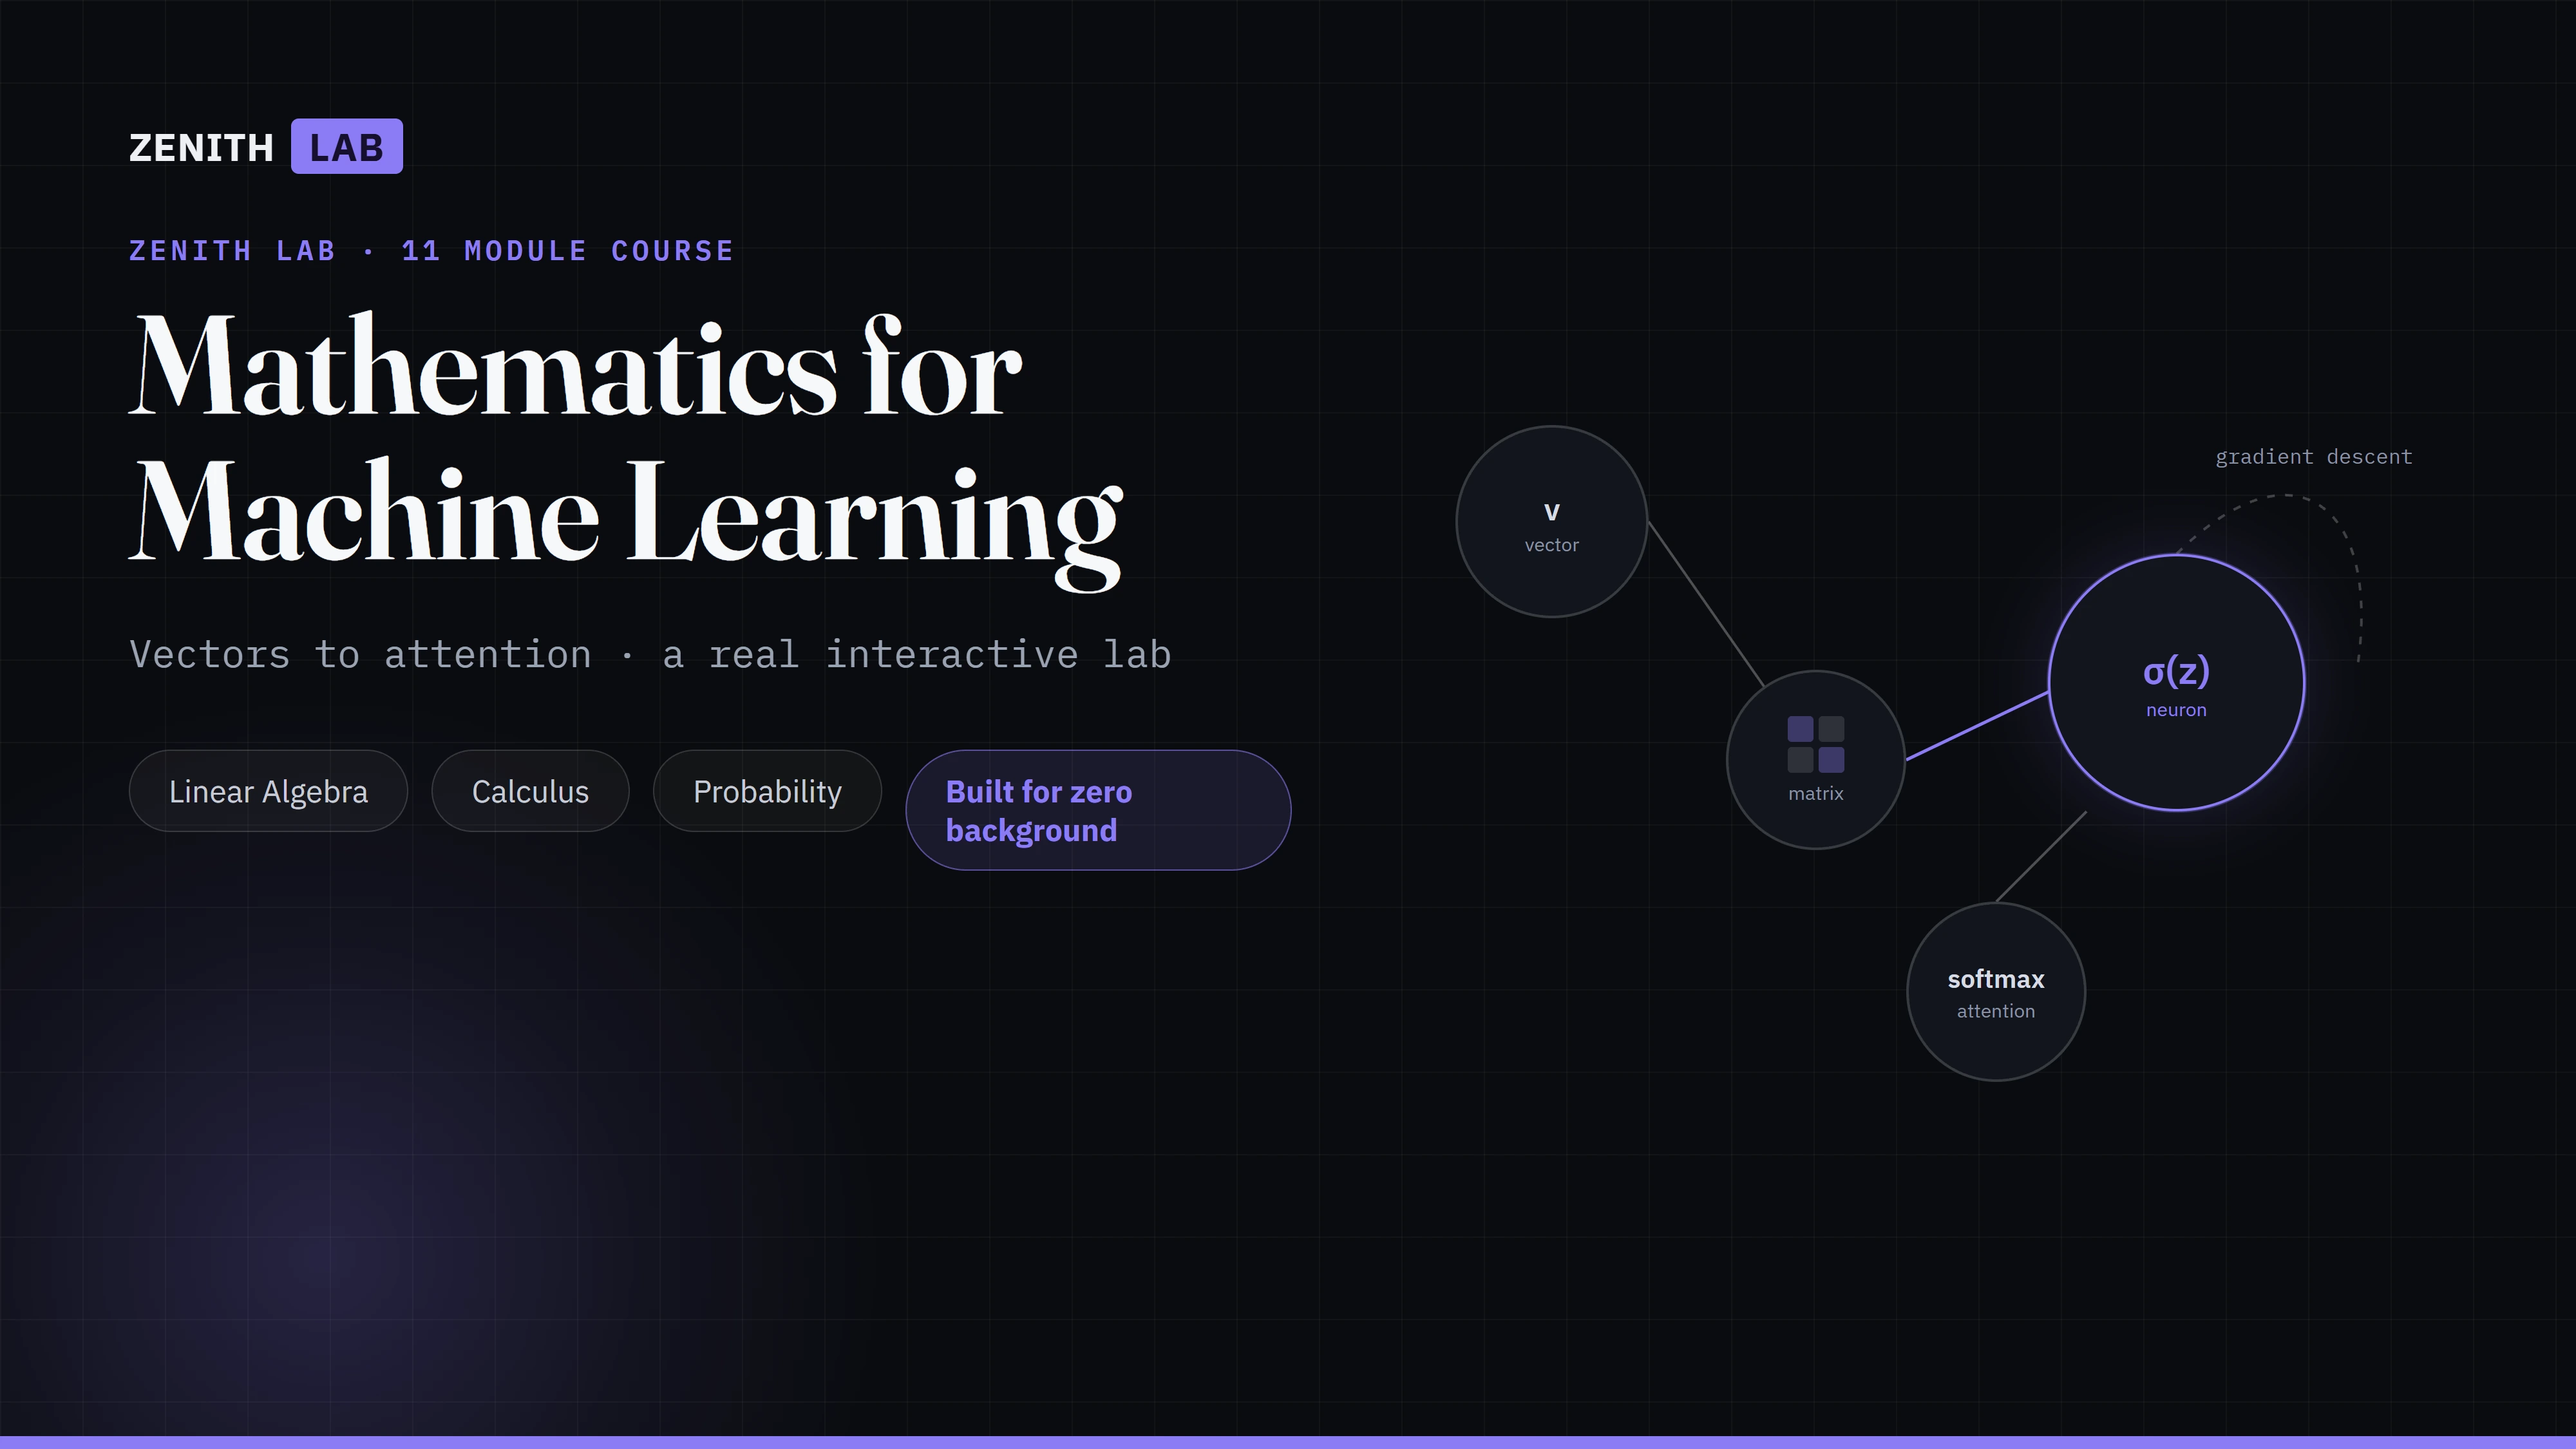
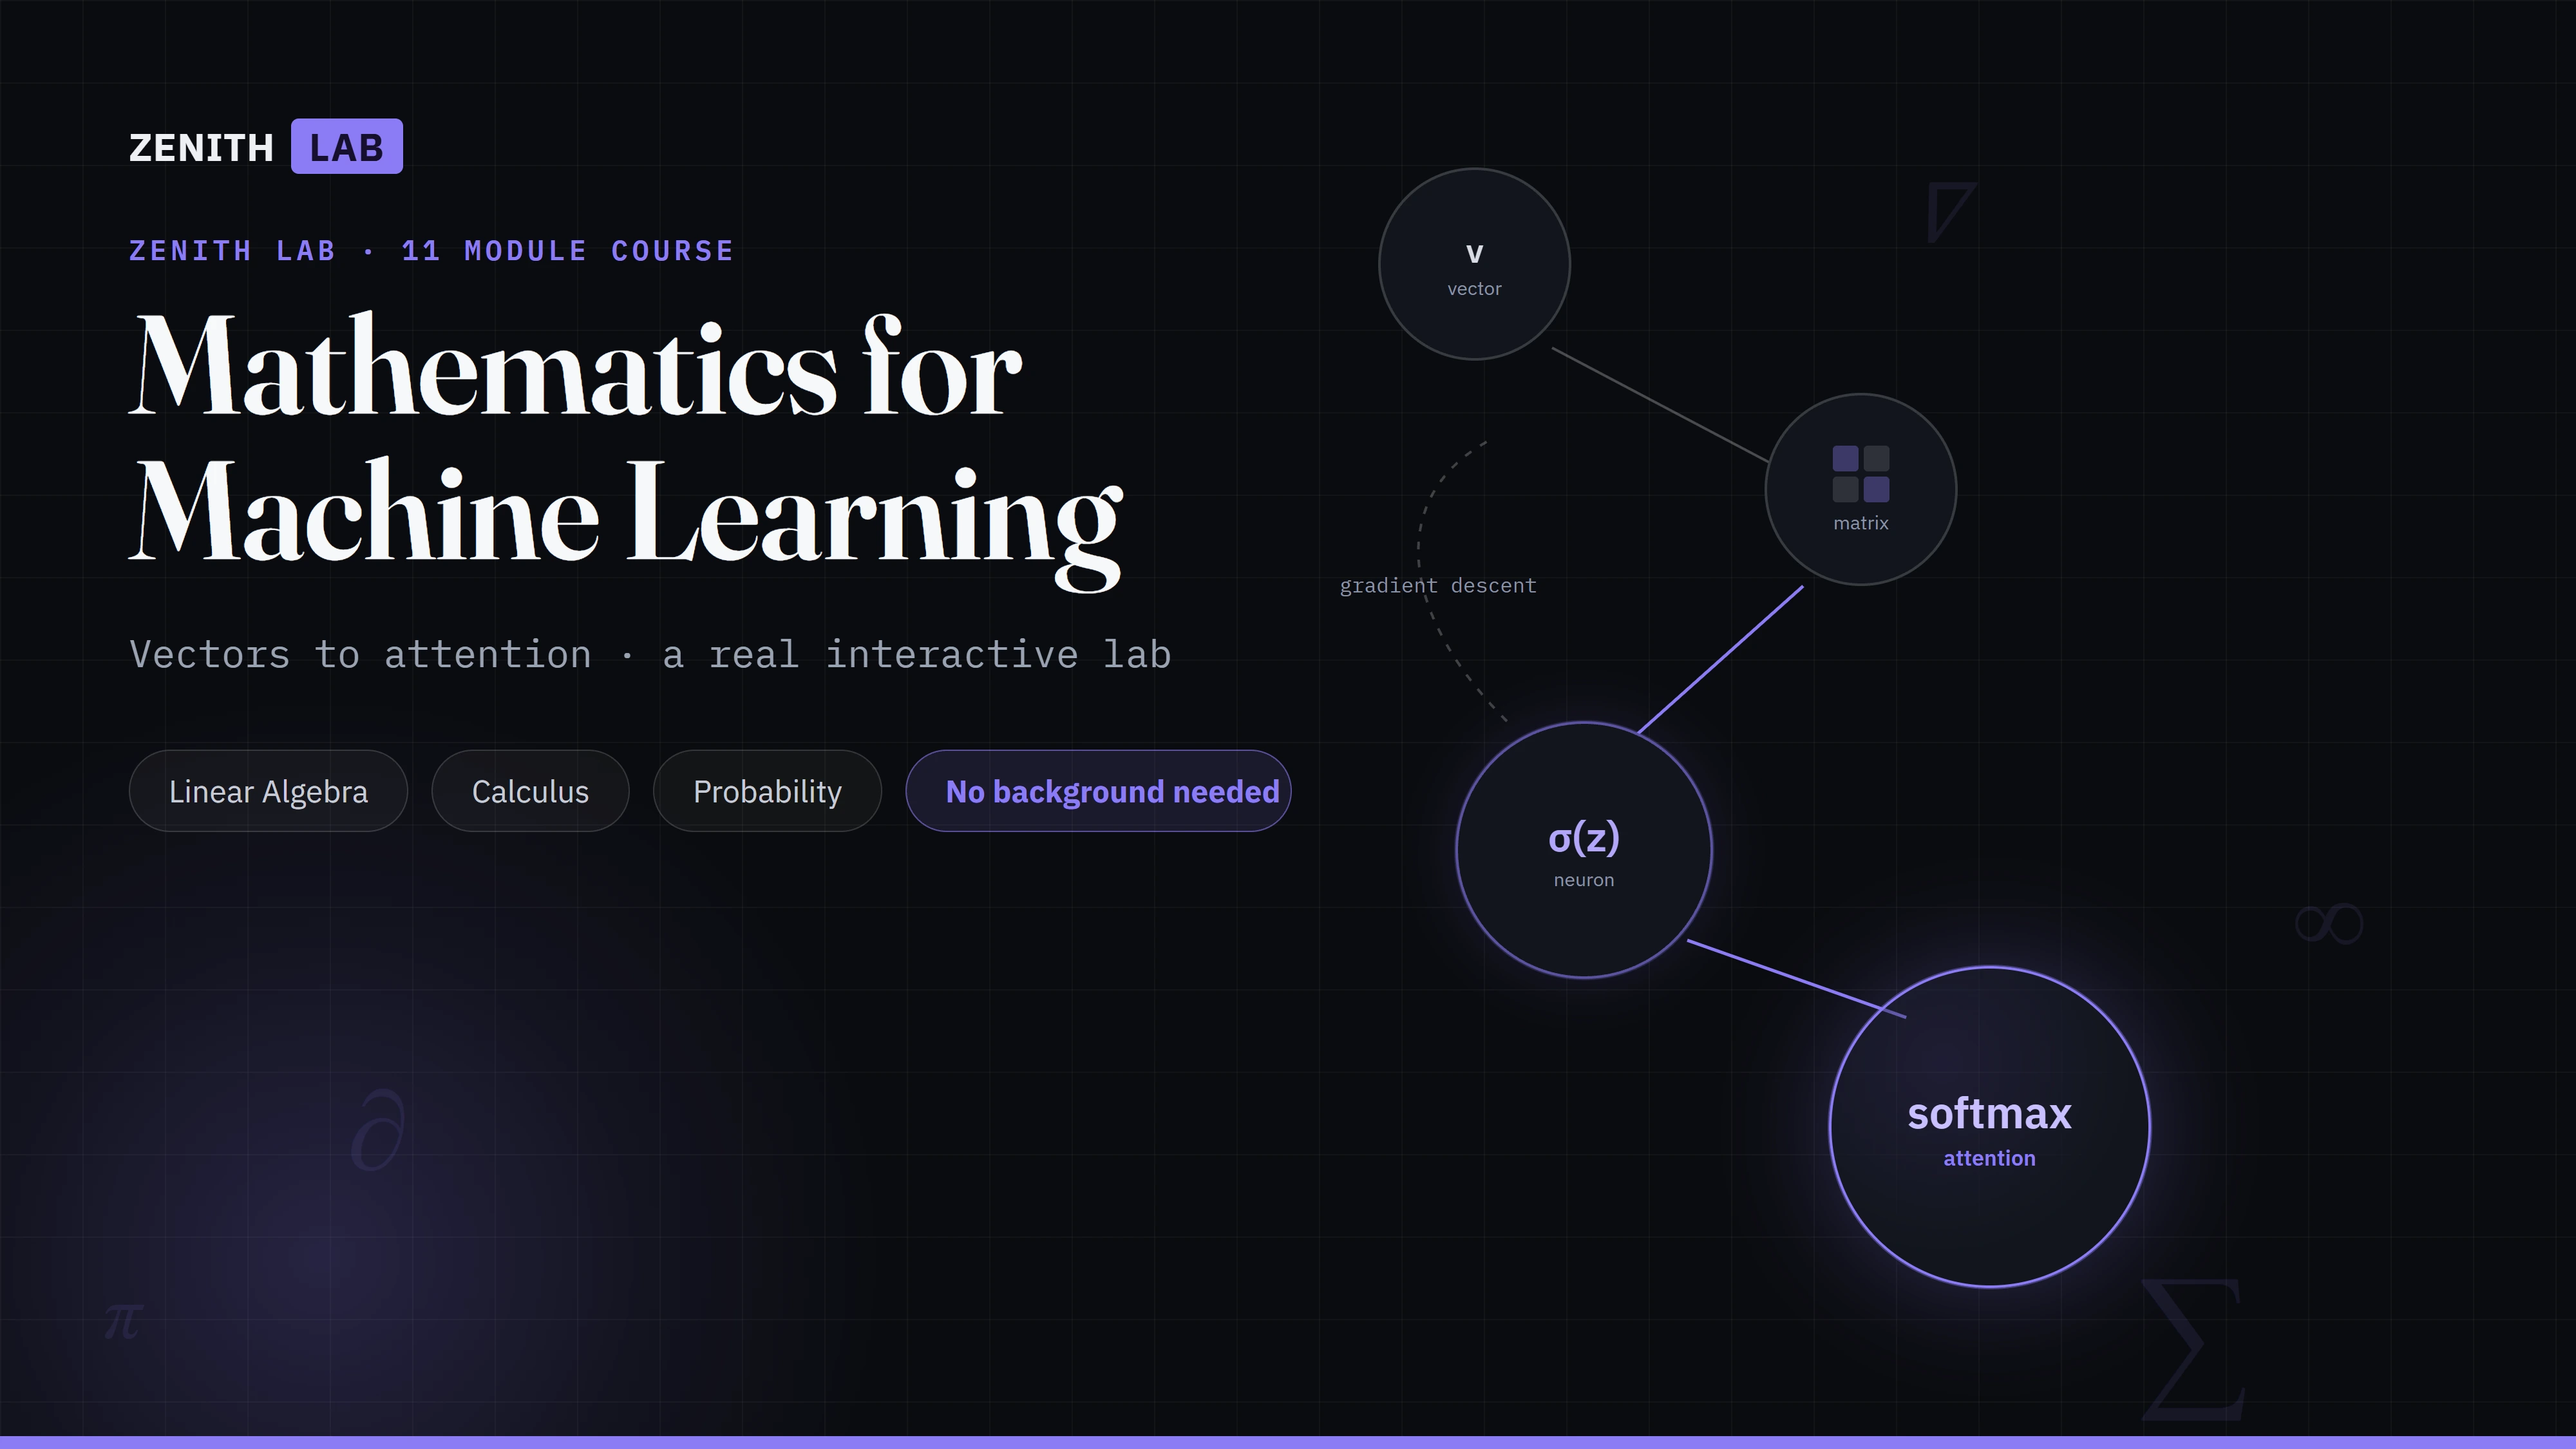
Redesign the math-for-ml cover graphic as a fuller vertical pipeline
The vector/matrix/neuron/attention nodes were clustered in the top-right
corner, leaving the lower half of the canvas empty and the pieces reading
as disconnected. Rearranges them into one diagonal cascade spanning the
full card height, highlights the final attention node as the payoff,
fixes an awkwardly-wrapping tag, and adds faint scattered math glyphs to
fill the remaining dead space.

diff --git a/scripts/_cover-templates/cover-math-for-ml.html b/scripts/_cover-templates/cover-math-for-ml.html
@@ -119,6 +119,7 @@
     line-height: 1.25;
     max-width: 260px;
     text-align: left;
+    white-space: nowrap;
   }
   .tag.highlight {
     color: #8b7cf6;
@@ -137,13 +138,27 @@
     background: #8b7cf6;
   }
 
-  /* --- vectors -> matrix -> neuron graphic --- */
+  /* faint scattered math glyphs — texture for the otherwise-empty lower
+     canvas, echoing the subject without competing with the graphic */
+  .glyph {
+    position: absolute;
+    font-family: 'Fraunces', serif;
+    font-style: italic;
+    color: rgba(139,124,246,0.10);
+    font-weight: 500;
+    z-index: 1;
+    user-select: none;
+  }
+
+  /* --- vector -> matrix -> neuron -> attention pipeline, spanning most
+     of the card's height so the graphic reads as one continuous idea
+     instead of a small cluster floating in empty space --- */
   .graphic {
     position: absolute;
-    right: 90px;
-    top: 300px;
-    width: 780px;
-    height: 560px;
+    right: 100px;
+    top: 130px;
+    width: 860px;
+    height: 900px;
   }
   .node {
     position: absolute;
@@ -159,11 +174,23 @@
     font-weight: 600;
     color: #d7dbe4;
   }
-  .node .sub { font-size: 15px; font-weight: 400; color: #8b93a6; margin-top: 2px; }
-  .node.vector { width: 150px; height: 150px; font-size: 24px; left: 0; top: 30px; }
-  .node.matrix { width: 140px; height: 140px; font-size: 22px; left: 210px; top: 220px; }
-  .node.neuron { width: 200px; height: 200px; font-size: 30px; left: 460px; top: 130px; border-color: #8b7cf6; box-shadow: 0 0 0 1px rgba(139,124,246,0.3), 0 0 60px rgba(139,124,246,0.18); color: #8b7cf6; }
-  .node.attn { width: 140px; height: 140px; font-size: 20px; left: 350px; top: 400px; }
+  .node .sub { font-size: 15px; font-weight: 400; color: #8b93a6; margin-top: 3px; }
+  .node.vector { width: 150px; height: 150px; font-size: 26px; left: 30px; top: 0; }
+  .node.matrix { width: 150px; height: 150px; font-size: 22px; left: 330px; top: 175px; }
+  .node.neuron {
+    width: 200px; height: 200px; font-size: 32px; left: 90px; top: 430px;
+    border-color: rgba(139,124,246,0.6);
+    box-shadow: 0 0 0 1px rgba(139,124,246,0.2), 0 0 50px rgba(139,124,246,0.14);
+    color: #b3a6fb;
+  }
+  .node.attn {
+    width: 250px; height: 250px; font-size: 34px; left: 380px; top: 620px;
+    border-color: #8b7cf6;
+    background: radial-gradient(circle at 35% 30%, rgba(139,124,246,0.16), #11151c 65%);
+    box-shadow: 0 0 0 1px rgba(139,124,246,0.4), 0 0 90px rgba(139,124,246,0.28);
+    color: #c9bfff;
+  }
+  .node.attn .sub { color: #8b7cf6; font-size: 17px; font-weight: 600; }
 
   .matrix-grid {
     display: grid;
@@ -185,6 +212,15 @@
   <div class="card">
     <div class="grid"></div>
     <div class="glow"></div>
+
+    <!-- background texture: faint math glyphs filling the otherwise-empty
+         lower half of the canvas -->
+    <div class="glyph" style="left:1660px; top:960px; font-size:120px;">&sum;</div>
+    <div class="glyph" style="left:270px; top:820px; font-size:90px;">&part;</div>
+    <div class="glyph" style="left:1480px; top:120px; font-size:70px;">&nabla;</div>
+    <div class="glyph" style="left:80px; top:980px; font-size:60px;">&pi;</div>
+    <div class="glyph" style="left:1780px; top:660px; font-size:80px;">&infin;</div>
+
     <div class="content">
       <div class="brand-row">
         <span class="brand-zenith">ZENITH</span>
@@ -199,24 +235,28 @@
         <div class="tag">Linear Algebra</div>
         <div class="tag">Calculus</div>
         <div class="tag">Probability</div>
-        <div class="tag highlight">Built for zero background</div>
+        <div class="tag highlight">No background needed</div>
       </div>
     </div>
 
     <div class="graphic">
-      <svg width="780" height="560" style="position:absolute;left:0;top:0;overflow:visible;">
-        <line x1="150" y1="105" x2="255" y2="255" stroke="rgba(255,255,255,0.28)" stroke-width="2" />
-        <line x1="350" y1="290" x2="465" y2="235" stroke="#8b7cf6" stroke-width="2.5" />
-        <line x1="490" y1="330" x2="420" y2="400" stroke="rgba(255,255,255,0.28)" stroke-width="2" />
-        <path d="M 560 130 C 650 40, 720 90, 700 220" fill="none" stroke="rgba(255,255,255,0.22)" stroke-width="2" stroke-dasharray="6 8" />
-        <text x="590" y="60" font-family="IBM Plex Mono, monospace" font-size="16" fill="#8b93a6">gradient descent</text>
+      <svg width="860" height="900" style="position:absolute;left:0;top:0;overflow:visible;">
+        <!-- vector -> matrix -->
+        <line x1="165" y1="140" x2="345" y2="235" stroke="rgba(255,255,255,0.26)" stroke-width="2" />
+        <!-- matrix -> neuron (the training step) -->
+        <line x1="360" y1="325" x2="220" y2="450" stroke="#8b7cf6" stroke-width="2.5" />
+        <!-- neuron -> attention (the payoff) -->
+        <line x1="270" y1="600" x2="440" y2="660" stroke="#8b7cf6" stroke-width="2.5" />
+        <!-- iterative gradient-descent loop, orbiting the neuron it trains -->
+        <path d="M 130 430 C 40 340, 40 250, 120 210" fill="none" stroke="rgba(255,255,255,0.22)" stroke-width="2" stroke-dasharray="6 8" />
+        <text x="0" y="330" font-family="IBM Plex Mono, monospace" font-size="16" fill="#8b93a6">gradient descent</text>
       </svg>
       <div class="node vector">v<span class="sub">vector</span></div>
       <div class="node matrix">
         <div class="matrix-grid"><span></span><span></span><span></span><span></span></div>
         <span class="sub" style="margin-top:0;">matrix</span>
       </div>
-      <div class="node neuron">&sigma;(z)<span class="sub" style="color:#8b7cf6;">neuron</span></div>
+      <div class="node neuron">&sigma;(z)<span class="sub">neuron</span></div>
       <div class="node attn">softmax<span class="sub">attention</span></div>
     </div>
 
